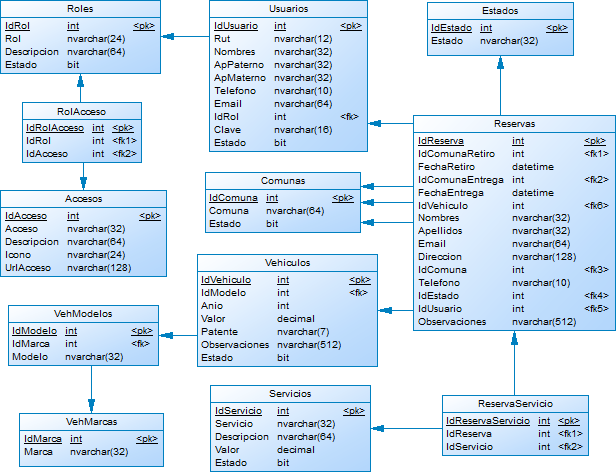
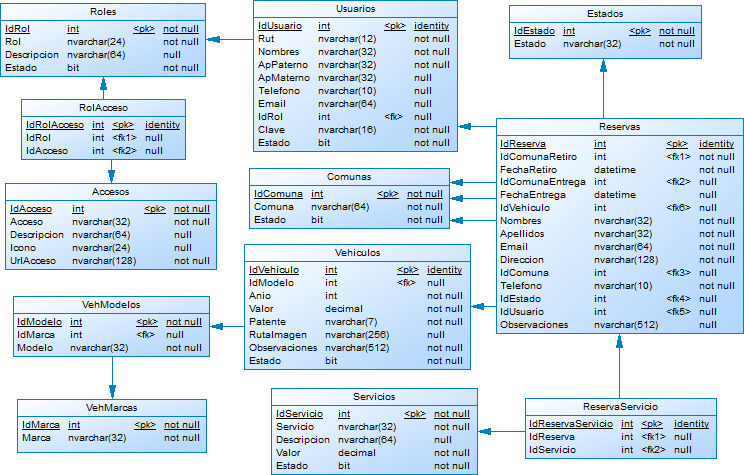
Se actualiza modelo de datos y script de creación

diff --git a/Fuentes/SisRent.Entidades/Entidades/Vehiculos.cs b/Fuentes/SisRent.Entidades/Entidades/Vehiculos.cs
@@ -26,6 +26,9 @@ namespace SisRent.Entidades.Entidades
         [Required]
         [StringLength(7)]
         public string Patente { get; set; }
+        
+        [StringLength(256)]
+        public string RutaImagen { get; set; }
 
         [Required]
         [StringLength(512)]
